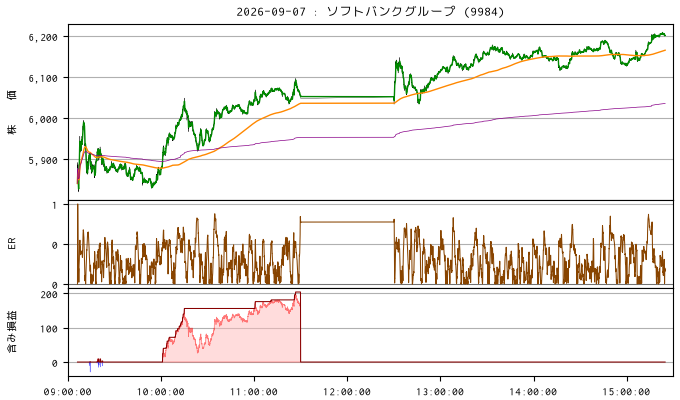
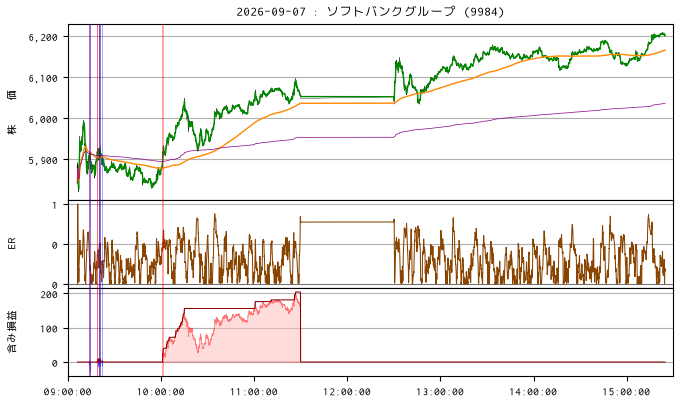
update

Changed region(s): [[0.1235, 0.06, 0.1544, 0.93]]

diff --git a/tools/profit_sim_charts.py b/tools/profit_sim_charts.py
@@ -138,14 +138,14 @@ class ProfitReviewChart(FigureCanvas):
         self.ax[i].set_ylabel("含み損益")
 
         # --- クロス・シグナル ---
-        list_ma_gc = df[0 < df["ma_gc"]].index
-        list_ma_dc = df[0 < df["ma_dc"]].index
+        list_vwap_gc = df[0 < df["vwap_gc"]].index
+        list_vwap_dc = df[0 < df["vwap_dc"]].index
         for i in range(self.rows):
             # ゴールデン・クロス
-            for t in list_ma_gc:
+            for t in list_vwap_gc:
                 self.ax[i].axvline(x=t, zorder=100, c="#f00", ls="solid", alpha=0.5, lw=0.5)
             # デッド・クロス
-            for t in list_ma_dc:
+            for t in list_vwap_dc:
                 self.ax[i].axvline(x=t, zorder=100, c="#00f", ls="solid", alpha=0.5, lw=0.5)
 
         # --- プロットを更新 ---
